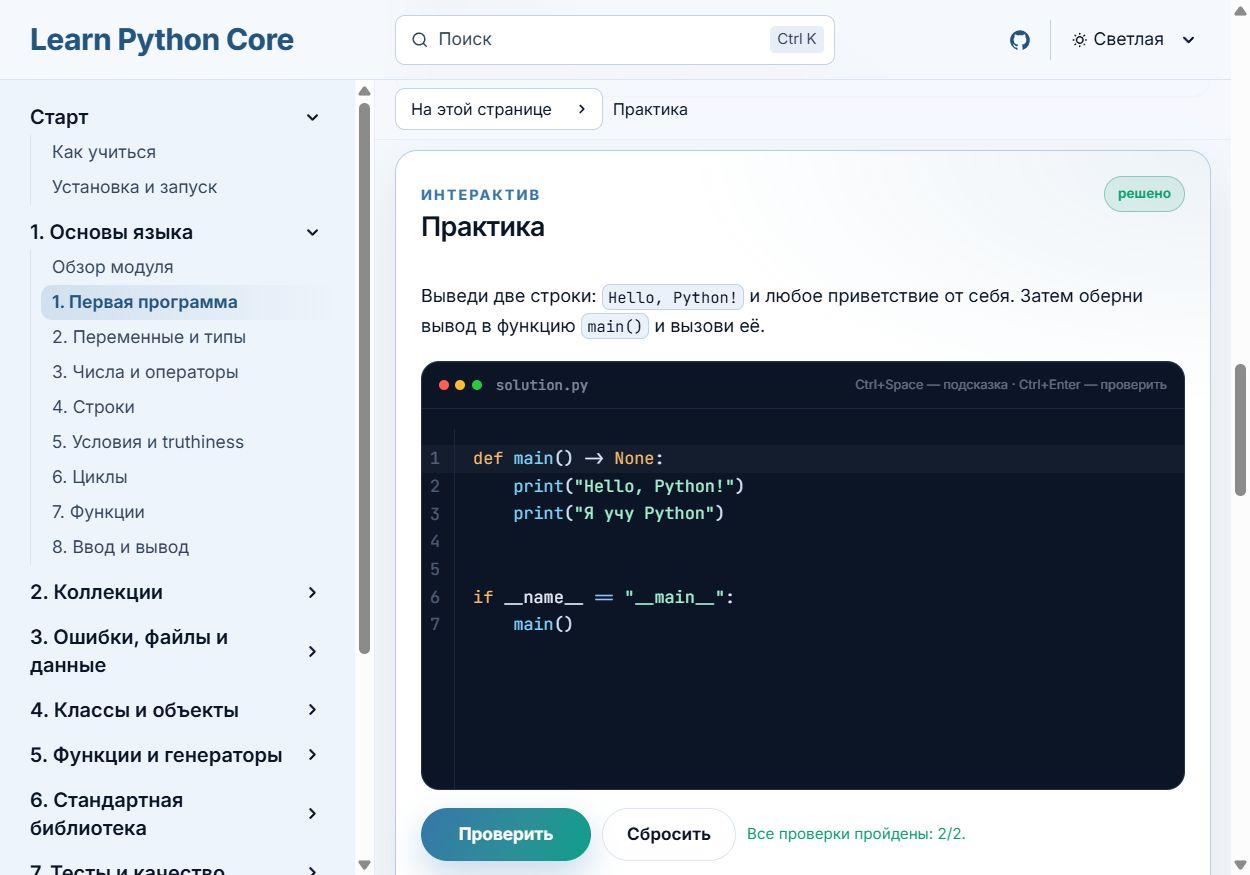
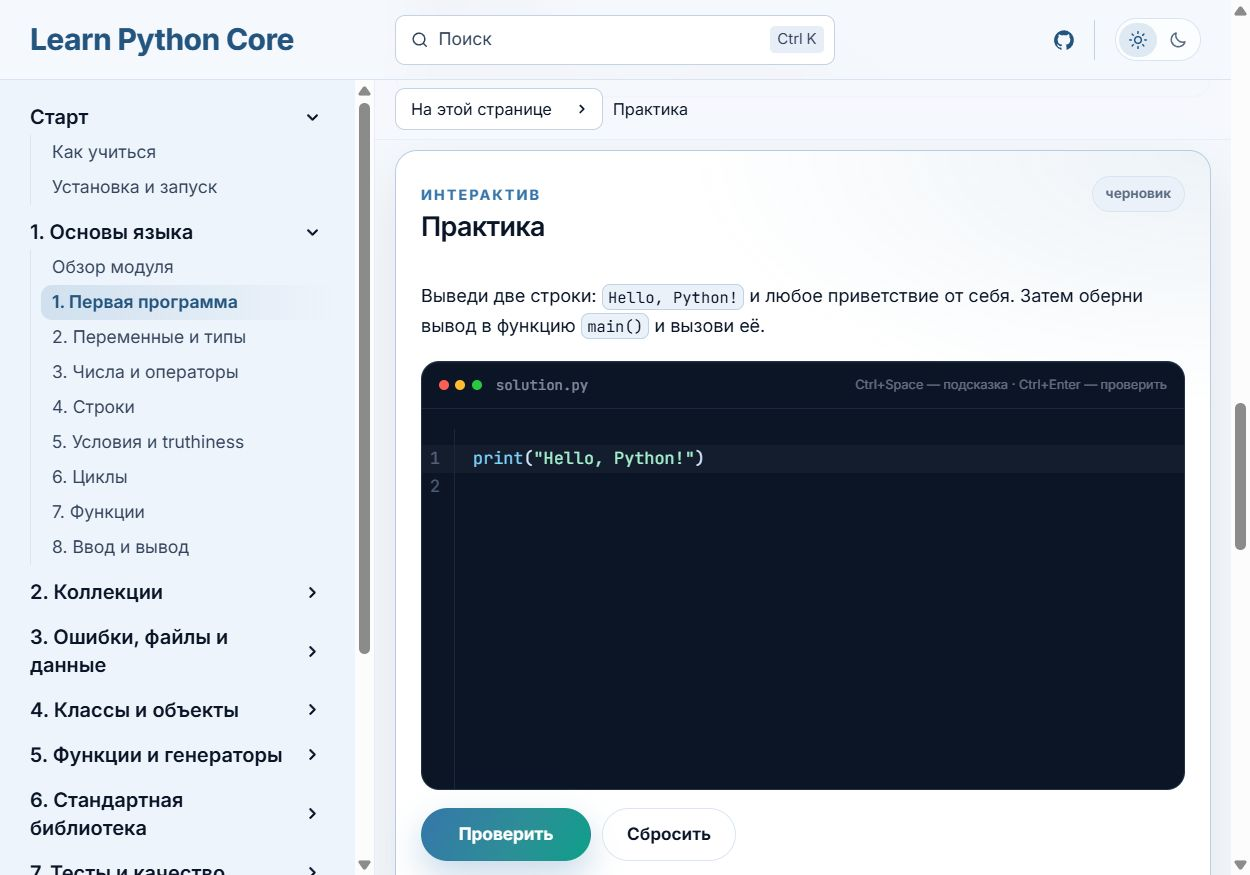
fix: remove hero outline, align stat cards, add sun/moon theme toggle

diff --git a/site/src/styles/custom.css b/site/src/styles/custom.css
@@ -120,14 +120,73 @@ header.header {
   border-bottom: 1px solid var(--course-border);
 }
 
-header.header select {
-  width: 7.5rem;
-  min-width: 7.5rem;
+/* ---------- Theme toggle (sun / moon) ---------- */
+
+.theme-toggle {
+  display: inline-flex;
+  align-items: center;
+  gap: 0.1rem;
+  padding: 0.16rem;
+  border: 1px solid var(--course-border);
+  border-radius: 999px;
+  background: color-mix(in srgb, var(--course-card) 70%, transparent);
 }
 
-header.header div:has(> select) {
-  width: auto;
-  min-width: 7.4rem;
+.theme-toggle-btn {
+  display: inline-flex;
+  align-items: center;
+  justify-content: center;
+  width: 1.9rem;
+  height: 1.7rem;
+  padding: 0;
+  border: 0;
+  border-radius: 999px;
+  background: transparent;
+  color: var(--course-muted);
+  cursor: pointer;
+  transition: background-color 150ms ease, color 150ms ease;
+}
+
+.theme-toggle-btn svg {
+  display: block;
+  width: 1rem;
+  height: 1rem;
+}
+
+.theme-toggle-btn:hover {
+  color: var(--course-ink);
+  background: var(--course-soft);
+}
+
+.theme-toggle-btn[aria-pressed='true'] {
+  background: color-mix(in srgb, var(--course-accent) 15%, transparent);
+  color: var(--course-accent-deep);
+}
+
+:root[data-theme='dark'] .theme-toggle-btn[aria-pressed='true'] {
+  color: var(--course-bg);
+  background: var(--course-accent);
+}
+
+.theme-toggle-btn:focus-visible {
+  outline: 2px solid var(--course-accent);
+  outline-offset: 1px;
+}
+
+/*
+ * На splash-страницах (главная) нет бокового меню, а Starlight скрывает
+ * правую группу шапки на мобильных — без этого переключатель темы
+ * остаётся недоступным. Показываем только солнце/луну.
+ */
+@media (max-width: 49.99rem) {
+  :root:not([data-has-sidebar]) .right-group {
+    display: flex;
+    gap: 0.75rem;
+  }
+
+  :root:not([data-has-sidebar]) .right-group .social-icons {
+    display: none;
+  }
 }
 
 .site-title {
@@ -336,14 +395,18 @@ header.header div:has(> select) {
   overflow: clip;
 }
 
+/*
+ * Свечение героя должно затухать до границ блока: иначе overflow: clip
+ * обрезает градиент по прямоугольнику и вокруг героя появляется контур.
+ */
 .course-hero::before {
   content: '';
   position: absolute;
-  inset: -10% -8% 10% -12%;
+  inset: 0;
   z-index: -1;
   background:
-    radial-gradient(closest-side at 22% 30%, color-mix(in srgb, var(--course-accent) 16%, transparent), transparent),
-    radial-gradient(closest-side at 82% 72%, color-mix(in srgb, var(--course-accent-2) 14%, transparent), transparent);
+    radial-gradient(closest-side at 20% 32%, color-mix(in srgb, var(--course-accent) 16%, transparent), transparent 72%),
+    radial-gradient(closest-side at 84% 74%, color-mix(in srgb, var(--course-accent-2) 14%, transparent), transparent 72%);
   filter: blur(10px);
   pointer-events: none;
 }
@@ -498,12 +561,17 @@ header.header div:has(> select) {
  */
 .hero-actions > *,
 .hero-badges > *,
+.hero-stats > *,
 .hero-code-caption > *,
+.course-hero > *,
 .lesson-actions > *,
 .lesson-nav > *,
 .module-nav > *,
 .quiz-actions > *,
+.quiz > *,
+.quiz-options > *,
 .progress-buttons > *,
+.progress-summary > *,
 .practice-actions > *,
 .practice-header > *,
 .lesson-source-head > *,
@@ -511,6 +579,10 @@ header.header div:has(> select) {
 .module-grid > *,
 .lesson-loop > *,
 .home-principles > *,
+.home-progress > *,
+.home-cta > *,
+.module-banner > *,
+.route-module > *,
 .lesson-list > *,
 .start-cards > *,
 .inventory-stats > *,
